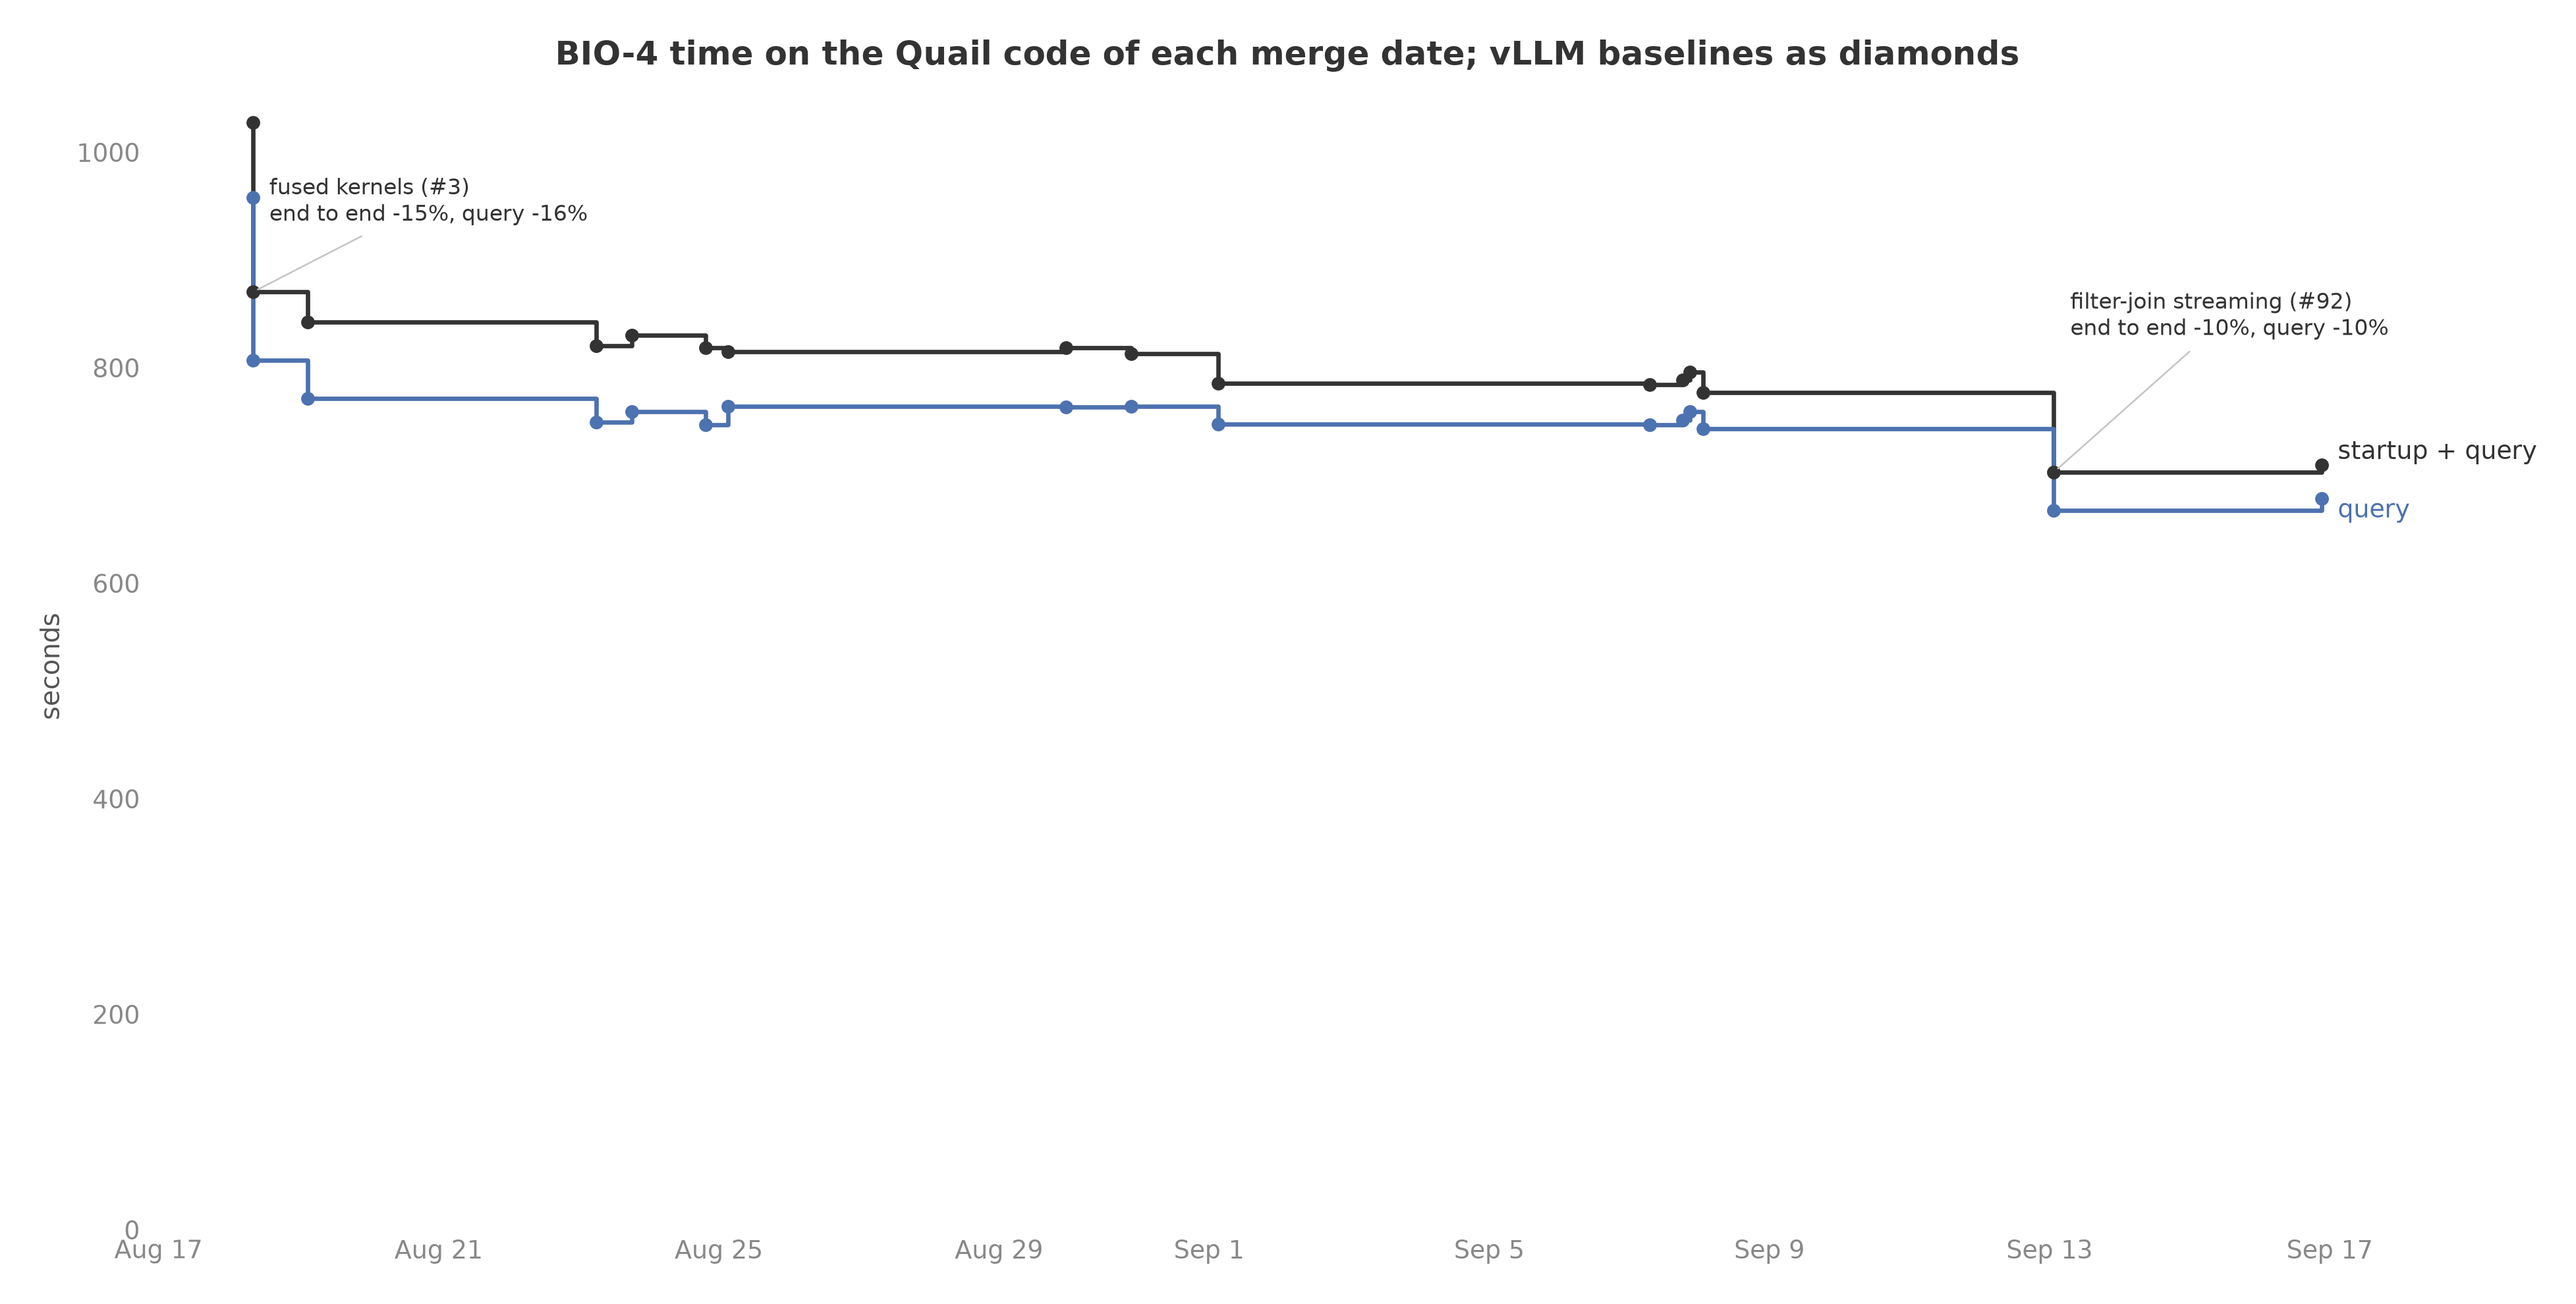
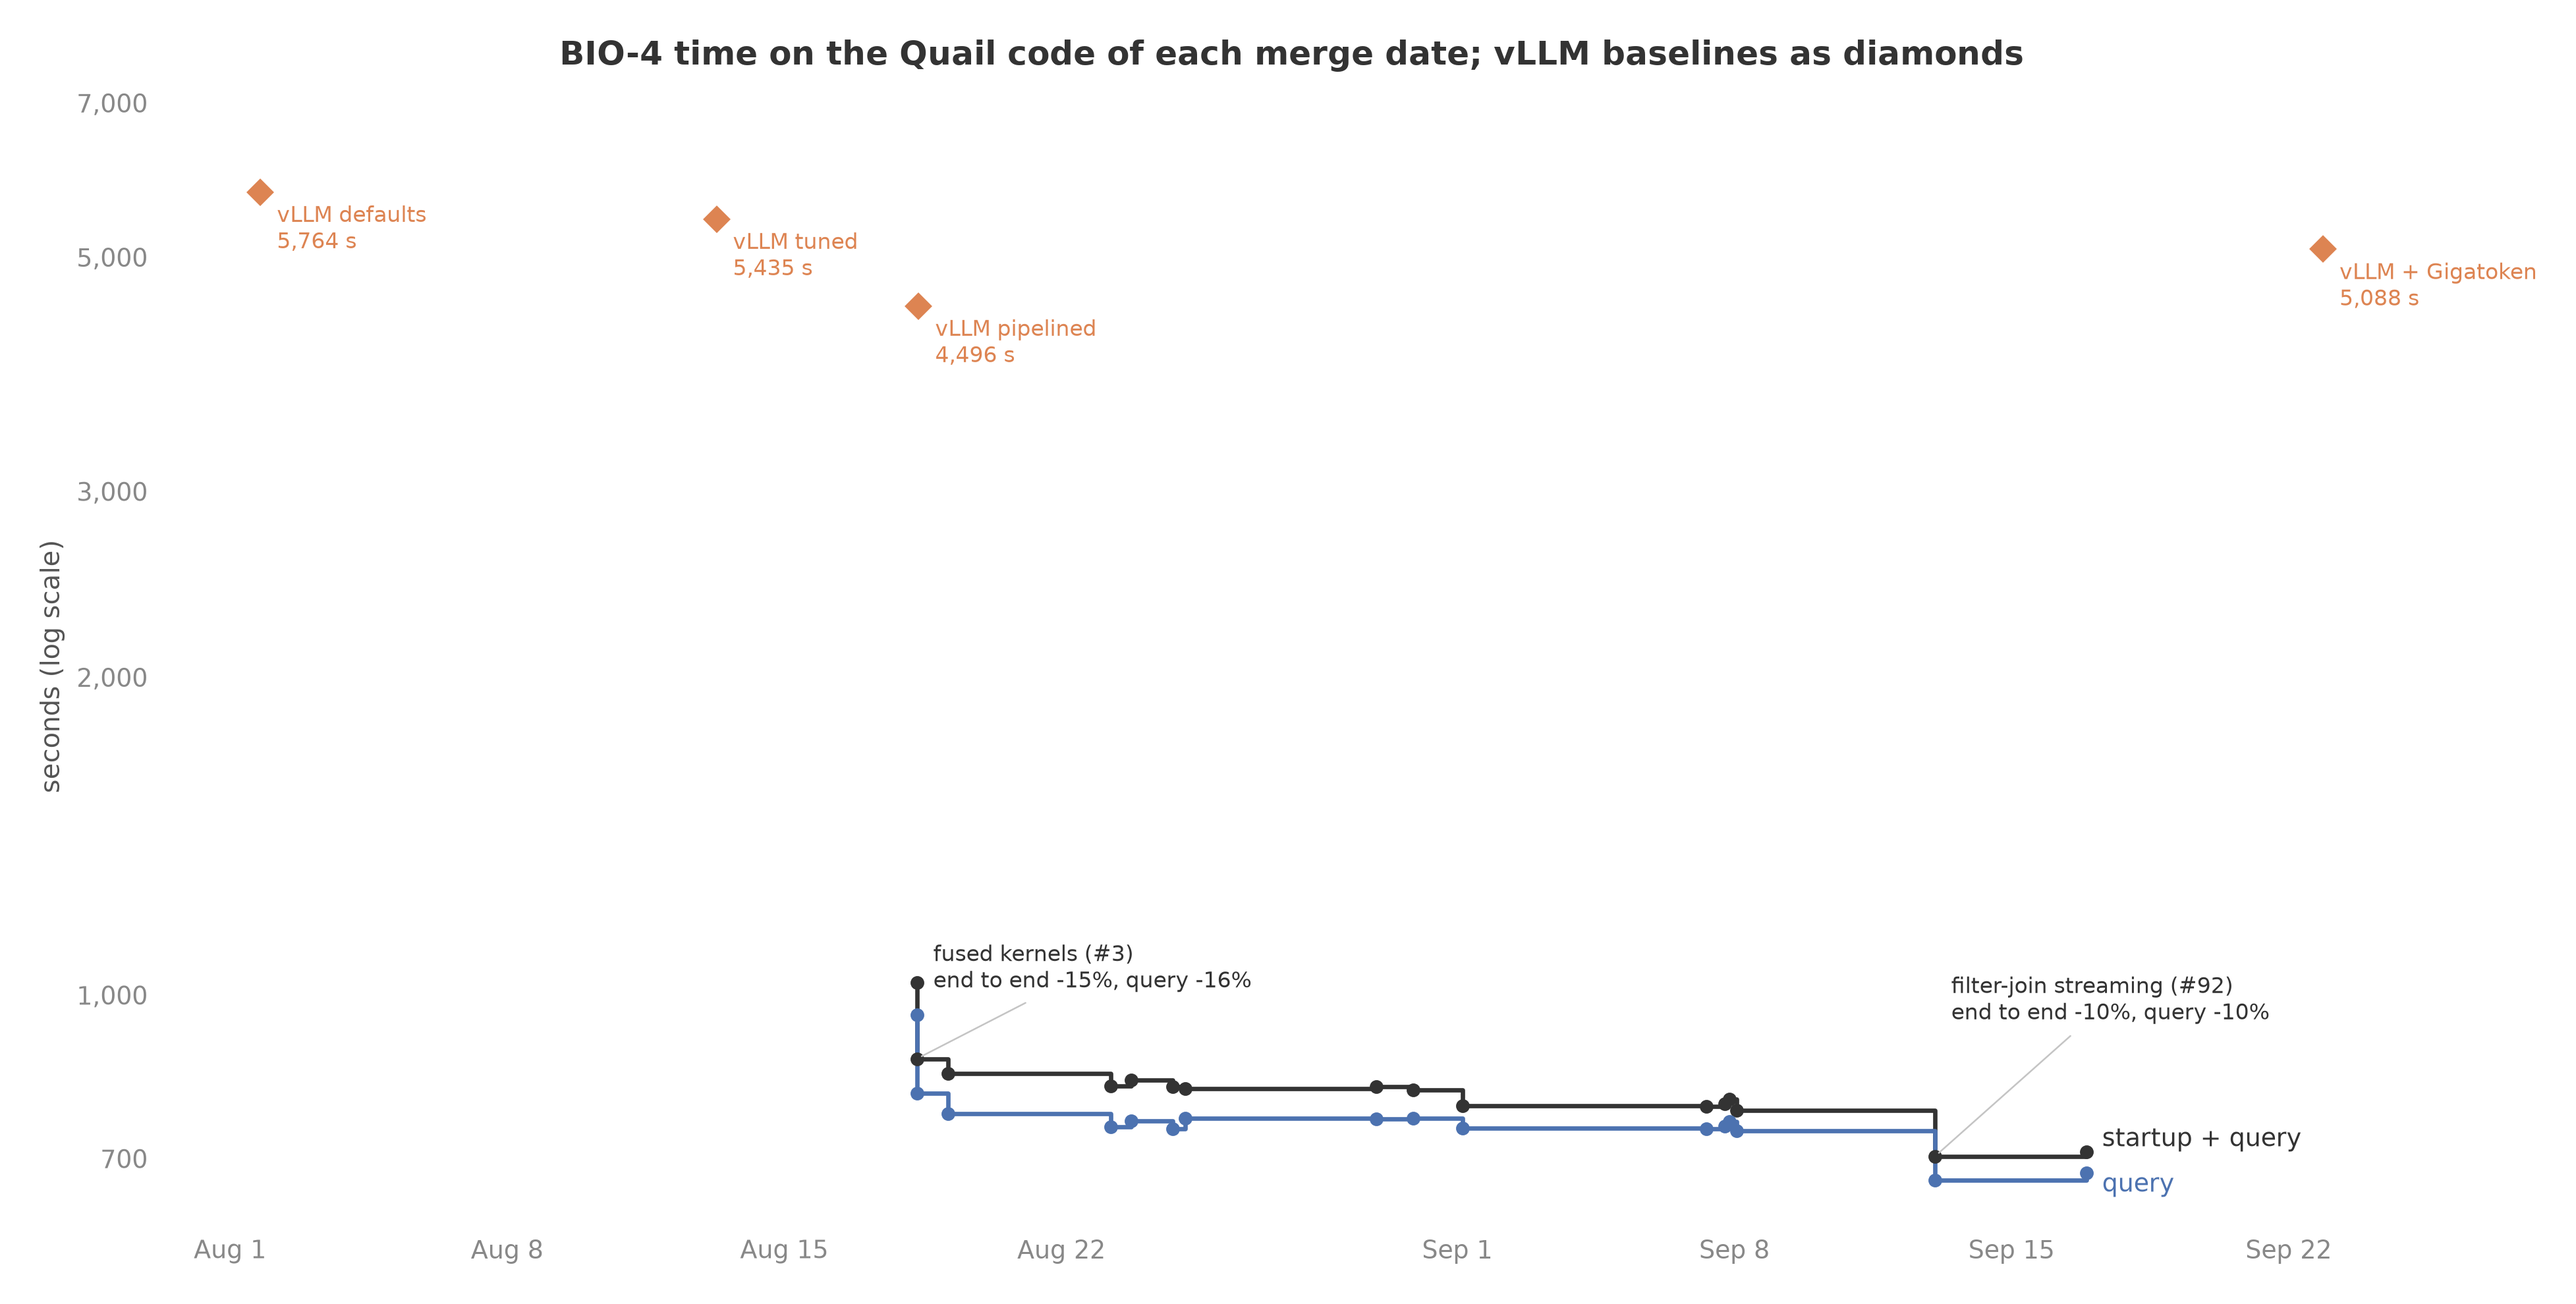
Report BIO-4 across Quail's history
Every configuration runs the current code with the features merged
after its date switched off, on one prompt, at sf=0.5, one H100 each.

Claude-Session: https://claude.ai/code/session_01BQD83hyG8DvqnZ2wwywDKf

diff --git a/reports/make_bio4_history_plots.py b/reports/make_bio4_history_plots.py
@@ -128,7 +128,7 @@ def progress_plot(summaries, names, out, notable=0.05):
     A Quail step is labeled when it changes end-to-end or query seconds
     by more than `notable` of the previous step's value; the label adds
     the answer agreement when the step moves it by 2 points or more.
-    The y-axis turns logarithmic when the values span more than 10x.
+    The y-axis turns logarithmic when the values span more than 4x.
     """
     quail = [n for n in names if summaries[n]["backend"] == "quail"]
     dates = [when(summaries[n]) for n in quail]
@@ -171,9 +171,14 @@ def progress_plot(summaries, names, out, notable=0.05):
                     fontsize=8, color=ORANGE, va="top")
     ax.xaxis.set_major_formatter(mdates.DateFormatter("%b %-d"))
     everything = [sum(seconds(summaries[n])) for n in names] + list(query)
-    if max(everything) / min(everything) > 10:
+    if max(everything) / min(everything) > 4:
         ax.set_yscale("log")
         ax.set_ylabel("seconds (log scale)")
+        ticks = [t for t in (500, 700, 1000, 2000, 3000, 5000, 7000, 10000,
+                             20000) if min(everything) * 0.8 <= t
+                 <= max(everything) * 1.25]
+        ax.set_yticks(ticks, [f"{t:,}" for t in ticks])
+        ax.yaxis.set_minor_locator(plt.NullLocator())
     else:
         ax.set_ylabel("seconds")
         ax.set_ylim(bottom=0)
@@ -208,10 +213,13 @@ def time_plot(summaries, names, out):
     today = summaries.get("gigatoken")
     if baseline and today and "gigatoken" in names:
         speedup = seconds(baseline)[0] / seconds(today)[0]
-        top = sum(seconds(today))
-        ax.text(names.index("gigatoken"), top * 1.35,
-                f"query {speedup:.1f}x\nfaster than\nvLLM + Gigatoken",
-                ha="center", va="bottom", fontsize=8.5, color=DARK)
+        quail = [i for i, n in enumerate(names)
+                 if summaries[n]["backend"] == "quail"]
+        tallest = max(query[i] + startup[i] for i in quail)
+        ax.text((quail[0] + quail[-1]) / 2, tallest * 2.2,
+                f"Quail today: {speedup:.1f}x less query time than "
+                f"pipelined vLLM + Gigatoken",
+                ha="center", va="bottom", fontsize=9.5, color=DARK)
     fig.savefig(out, dpi=300)
     plt.close(fig)
 

diff --git a/reports/2026-09-26-bio4-history.md b/reports/2026-09-26-bio4-history.md
@@ -1,6 +1,28 @@
 # BIO-4 across Quail's history
 
-{{SUMMARY}}
+- BIO-4 at sf=0.5 took 1,027.8 seconds end to end (958.1 query plus
+  69.7 startup) on Quail's first engine, Aug 18, and 709.8 seconds (678.5
+  plus 31.3) on today's code: 1.45 times less. Every configuration
+  answers the same prompts.
+- The query-time gains came from two changes: the fused Triton kernels
+  (#3, 15.8% less) and streaming filter survivors into the join with
+  their KV pinned (#92, 10.3% less). Pinned copies (#12) saved 4.4%.
+  Every other change moved BIO-4's query time by less than the 1.7%
+  run-to-run spread.
+- Startup fell from 69.7 to 31.3 seconds in three steps: kernels
+  compiled once (#47), vLLM's cache kept on a volume (#78), and the
+  Gigatoken tokenizer, which loads in 1.5 seconds instead of 10 to 17
+  (#103).
+- The vLLM baselines took 4,496 to 5,764 seconds end to end. Quail's
+  first engine was already 4.4 times faster than pipelined vLLM on the
+  same date; today Quail takes 7.4 times less query time than pipelined
+  vLLM today (678.5 against 5,039.0 seconds), at $0.744 per query
+  against $5.528.
+- Two side results change answers, not speed: how the prompt is
+  tokenized (Quail joins separately tokenized pieces; vLLM today
+  tokenizes whole prompts and agrees more with the reference, 86.9%
+  against 79.5%), and where the join question sits (before #52 the
+  question followed the term, and agreement was 94.5%).
 
 ![BIO-4 time on the Quail code of each merge date](plots/bio4_history_progress.png)
 
@@ -33,12 +55,14 @@ Figure: plots/bio4_history_tokens.png
   saving it brought comes from the prompt, and the engine already
   computed text in that position once per report, so it is not a step.
 - The vLLM configurations are the baselines as they stood on their
-  dates.
+  dates. Before Sep 22 they received prompt token ids from Quail; since
+  then they tokenize the prompt text with Gigatoken.
 - Each configuration ran in its own fresh container, all at once.
   Cell: `experiments/bio4_history.py`. Run directories on
   `quail-results`: the configurations dated before Aug 26 in
   `/results/ablations/bio4-history-sf0.5-20260926T223002Z` (commit
-  `6537700`), the rest in
+  `6537700`), with the three vLLM baselines dated before Sep 22; the
+  rest in
   `/results/ablations/bio4-history-sf0.5-20260926T213610Z` (commit
   `e38bfeb`). The logs with every Modal function call id are
   `results/benchmark/20260926T222959Z-bio4-history-sf0.5-early.log` and
@@ -152,12 +176,46 @@ two containers, at 678.5 and 667.0 seconds.
   667.4 seconds. Each passing report now keeps its KV pinned until its
   pairs are answered: all 1,894 joins found their report's KV, and
   recomputed KV tokens fell from 13.6 million to 6.1 million.
-- **Gigatoken, #103.** Session startup fell from 12 to 17 seconds to
+- **Gigatoken, #103.** Session startup fell from 10 to 17 seconds to
   1.5 seconds, and document tokenization inside the query from about 4
   seconds to 1.3 seconds. Query time moved within noise.
 
 Over the whole history, startup fell from 69.7 to 31.3 seconds and
 query time from 958.1 to 678.5 seconds.
+
+## The vLLM baselines
+
+- vLLM at default settings took 5,579.9 seconds of query time and 184.3
+  seconds of startup. Tuned settings (#2) took 5,330.1, and pipelining
+  the filters took 4,391.0. All three received Quail's prompt token ids
+  and returned the same answers.
+- Pipelined vLLM today (#167) receives prompt text and tokenizes it
+  with Gigatoken: 5,039.0 seconds, 648 more than with token ids, since
+  it now tokenizes about 12 billion tokens of prompt text. Its startup
+  fell to 49.2 seconds because its cache is kept on a volume.
+- vLLM computes 70 to 71 million fresh tokens, of which 22 to 23 million
+  recompute KV it already had, against 53.5 million and 6.2 million for
+  Quail today.
+
+## Side result: tokenizing prompt pieces changes the answers
+
+- Quail tokenizes each document, question, and label separately and
+  joins the token ids. vLLM before #167 received those same token ids.
+  vLLM since #167 receives the prompt text and tokenizes each whole
+  prompt with Gigatoken. The text is identical; the token ids differ
+  where a piece boundary would merge into one token in the whole text.
+- At sf=0.5 the answers follow the tokenization, not the engine:
+
+| | Quail today | Pipelined vLLM, Aug 18 (token ids) | Pipelined vLLM today (whole text) |
+|---|---:|---:|---:|
+| Answer agreement | 79.5% | 78.2% | 86.9% |
+| Rows returned (reference 6.46 million) | 86.5 million | 99.8 million | 44.5 million |
+
+- Whole-prompt tokenization also costs time: pipelined vLLM took
+  4,391 seconds with token ids and 5,039 seconds tokenizing about 12
+  billion tokens of prompt text itself.
+- To settle how much of the accuracy gap this explains, run Quail with
+  the join pieces tokenized as whole prompts on a sample of pairs.
 
 ## Side result: where the question sits changes the answers
 
@@ -181,21 +239,94 @@ configurations `compile_once` and `shared_join_prompts`):
   answers move.
 - The reference labels were made by Qwen3 32B with the question-before-term
   layout. The 4B model answers TRUE five times as often as the
-  reference with that layout. Pipelined vLLM uses the same prompts and
-  gets the same answers, so this is a property of the prompt, not of
+  reference with that layout. At sf=0.1, pipelined vLLM given the
+  question-after-term token ids agreed 92.6%, close to Quail's 93.1%
+  with the same prompts, so this is a property of the prompt, not of
   the engine.
 - To settle which layout to keep, read a sample of the pairs the two
   layouts answer differently, and repeat the swap on BIO-2 and BIO-3.
 
-{{TABLES}}
+## Tables
 
+| Configuration | Merged | Query s | Startup s (median, range) | Input tokens/s | $/query |
+|---|---|---:|---:|---:|---:|
+| vLLM defaults | Aug 1 | 5,579.9 | 184.3 (171.1 to 297.9, n=3) | 2,186,057 | 6.1211 |
+| vLLM tuned | Aug 13 #2 | 5,330.1 | 104.7 (82.9 to 138.0, n=3) | 2,288,518 | 5.8471 |
+| vLLM pipelined | Aug 18 | 4,391.0 | 105.1 (86.6 to 105.4, n=3) | 2,777,959 | 4.8169 |
+| vLLM + Gigatoken | Sep 22 #167 | 5,039.0 | 49.2 (44.1 to 78.2, n=3) | 2,384,270 | 5.5278 |
+| Quail engine | Aug 18 | 958.1 | 69.7 (61.2 to 74.9, n=3) | 12,408,716 | 1.0510 |
+| fused kernels | Aug 18 #3 | 806.9 | 63.4 (61.7 to 73.7, n=3) | 15,022,765 | 0.8852 |
+| pinned copies | Aug 19 #12 | 771.7 | 70.6 (62.1 to 80.8, n=3) | 15,709,007 | 0.8465 |
+| attention paths | Aug 23 #35 | 749.8 | 70.5 (59.9 to 73.0, n=3) | 15,770,636 | 0.8225 |
+| skip KV writes | Aug 23 #36 | 759.5 | 71.1 (69.0 to 77.8, n=3) | 15,569,245 | 0.8331 |
+| join search | Aug 24 #42 | 747.4 | 71.6 (62.7 to 78.2, n=3) | 15,811,710 | 0.8199 |
+| compile once | Aug 25 #47 | 764.4 | 50.7 (42.0 to 63.9, n=3) | 15,459,188 | 0.8386 |
+| filter KV reuse | Aug 29 #70 | 763.4 | 55.1 (40.0 to 64.1, n=3) | 15,479,908 | 0.8375 |
+| scan ring | Aug 30 #72 | 764.0 | 48.9 (40.6 to 64.6, n=3) | 15,468,237 | 0.8381 |
+| boot cache | Sep 1 #78 | 747.9 | 37.6 (24.8 to 54.4, n=3) | 15,800,363 | 0.8205 |
+| shared retention | Sep 7 #79 | 747.0 | 37.5 (29.1 to 325.9, n=3) | 15,820,077 | 0.8194 |
+| join batching | Sep 7 #81 | 751.2 | 37.6 (30.3 to 45.9, n=3) | 15,730,956 | 0.8241 |
+| projection pushdown | Sep 7 #82 | 759.3 | 37.0 (27.9 to 41.4, n=3) | 15,563,953 | 0.8329 |
+| plan on estimates | Sep 8 #85 | 743.7 | 33.4 (28.6 to 48.0, n=3) | 15,890,436 | 0.8158 |
+| filter-join streaming | Sep 13 #92 | 667.4 | 35.7 (33.8 to 50.5, n=3) | 17,705,415 | 0.7322 |
+| Gigatoken | Sep 16 #103 | 678.5 | 31.3 (29.5 to 33.3, n=3) | 17,451,851 | 0.7443 |
+
+| Configuration | Fresh tokens | Recomputed KV tokens | KV regret % | Evaluated pairs |
+|---|---:|---:|---:|---:|
+| vLLM defaults | 70,972,089 | 22,754,343 | 32.1 | 2,976,294 |
+| vLLM tuned | 70,972,089 | 22,754,343 | 32.1 | 2,976,294 |
+| vLLM pipelined | 70,972,089 | 22,754,343 | 32.1 | 2,976,294 |
+| vLLM + Gigatoken | 70,014,999 | 22,094,124 | 31.6 | 2,953,628 |
+| Quail engine | 61,197,654 | 13,820,021 | 22.6 | 2,907,980 |
+| fused kernels | 62,050,071 | 14,044,155 | 22.6 | 2,962,456 |
+| pinned copies | 62,050,071 | 14,044,155 | 22.6 | 2,962,456 |
+| attention paths | 61,090,091 | 13,765,816 | 22.5 | 2,898,385 |
+| skip KV writes | 61,090,091 | 13,765,816 | 22.5 | 2,898,385 |
+| join search | 61,083,840 | 13,765,816 | 22.5 | 2,897,888 |
+| compile once | 61,083,840 | 13,765,816 | 22.5 | 2,897,888 |
+| filter KV reuse | 60,727,937 | 13,409,913 | 22.1 | 2,897,888 |
+| scan ring | 60,945,119 | 13,627,095 | 22.4 | 2,897,888 |
+| boot cache | 60,945,119 | 13,627,095 | 22.4 | 2,897,888 |
+| shared retention | 60,945,119 | 13,627,095 | 22.4 | 2,897,888 |
+| join batching | 60,945,119 | 13,627,095 | 22.4 | 2,897,888 |
+| projection pushdown | 60,945,119 | 13,627,095 | 22.4 | 2,897,888 |
+| plan on estimates | 60,945,119 | 13,627,095 | 22.4 | 2,897,888 |
+| filter-join streaming | 53,466,829 | 6,148,805 | 11.5 | 2,897,888 |
+| Gigatoken | 53,512,247 | 6,155,353 | 11.5 | 2,900,954 |
+
+| Configuration | Answer agreement % | Returned rows | Output precision % | Output recall % |
+|---|---:|---:|---:|---:|
+| vLLM defaults | 78.2 | 99,846,219 | 1.62 | 25.09 |
+| vLLM tuned | 78.2 | 99,846,219 | 1.62 | 25.09 |
+| vLLM pipelined | 78.2 | 99,846,215 | 1.62 | 25.09 |
+| vLLM + Gigatoken | 86.9 | 44,534,403 | 2.59 | 17.88 |
+| Quail engine | 80.5 | 81,765,858 | 1.87 | 23.63 |
+| fused kernels | 79.4 | 90,648,935 | 1.72 | 24.08 |
+| pinned copies | 79.4 | 90,648,935 | 1.72 | 24.08 |
+| attention paths | 79.6 | 86,300,301 | 1.81 | 24.21 |
+| skip KV writes | 79.6 | 86,300,301 | 1.81 | 24.21 |
+| join search | 79.6 | 86,300,301 | 1.81 | 24.21 |
+| compile once | 79.6 | 86,300,301 | 1.81 | 24.21 |
+| filter KV reuse | 79.6 | 86,300,301 | 1.81 | 24.21 |
+| scan ring | 79.6 | 86,300,301 | 1.81 | 24.21 |
+| boot cache | 79.6 | 86,300,301 | 1.81 | 24.21 |
+| shared retention | 79.6 | 86,300,301 | 1.81 | 24.21 |
+| join batching | 79.6 | 86,300,301 | 1.81 | 24.21 |
+| projection pushdown | 79.6 | 86,300,301 | 1.81 | 24.21 |
+| plan on estimates | 79.6 | 86,300,301 | 1.81 | 24.21 |
+| filter-join streaming | 79.6 | 86,300,301 | 1.81 | 24.21 |
+| Gigatoken | 79.5 | 86,516,625 | 1.81 | 24.22 |
 
 ## Reproduce
 
-- Rerun: `uv run modal run --detach
+- Rerun every configuration: `uv run modal run --detach
   experiments/bio4_history.py::history --sf 0.5 --startup-samples 2`
   on `claude/compassionate-maxwell-ux26bx`.
-- Figures and tables:
+- Figures and tables: pull `configurations/` and `startup/` from both
+  run directories, the earlier one first, then run
   `uv run --with matplotlib python reports/make_bio4_history_plots.py
-  "$W"` and the same with `--table`, after pulling
-  `/results/ablations/bio4-history-sf0.5-20260926T213610Z/configurations` and `/results/ablations/bio4-history-sf0.5-20260926T213610Z/startup` into `$W`.
+  "$W1" "$W2"`, and the same with `--table`. The script's docstring
+  has the `modal volume get` commands.
+
+  - `$W1`: `/results/ablations/bio4-history-sf0.5-20260926T213610Z`
+  - `$W2`: `/results/ablations/bio4-history-sf0.5-20260926T223002Z`
